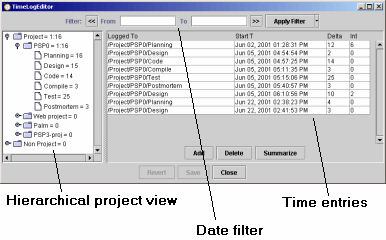
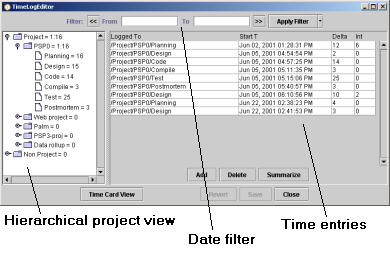
Document the Time Card View.
git-svn-id: https://svn.code.sf.net/p/processdash/code/trunk@1121 560cad82-bde2-470f-af40-e4e1f8d6548a

diff --git a/pspdash/Templates/help/Topics/Execution/UsingTimeLogEditor.html b/pspdash/Templates/help/Topics/Execution/UsingTimeLogEditor.html
@@ -72,8 +72,21 @@ a given process phase (i.e. when a process phase is left and then returned to
 again for more time measurement).  This function will allow you to collaspe 
 all duplicates entries in the current display.</P>
 
+<a name="TimeCardView"></a><p>The Time Card View button will display another 
+view of the time data.</p>
 
-<!-- DISCLAIMER -->
+<p><center><img src="../../Images/TimeCardView.png"></center></p>
+
+<p>The Time Card View is handy if you work for an employer that makes you 
+submit time cards or time sheets.  It has a pulldown on the very left that 
+allows you to choose the month to display, a pulldown to allow choice of time 
+formatting, and a checkbox that causes the display to hide days without any 
+time information.</p>
+
+<p><center><img src="../../Images/ShowTimeCardFormatPullDown.png"></center></p>
+
+<p>You can choose to display time in Hours:Minutes format, Hours:Fractions 
+format, or just number of minutes.</p>
 
 </BODY>
 </HTML>
